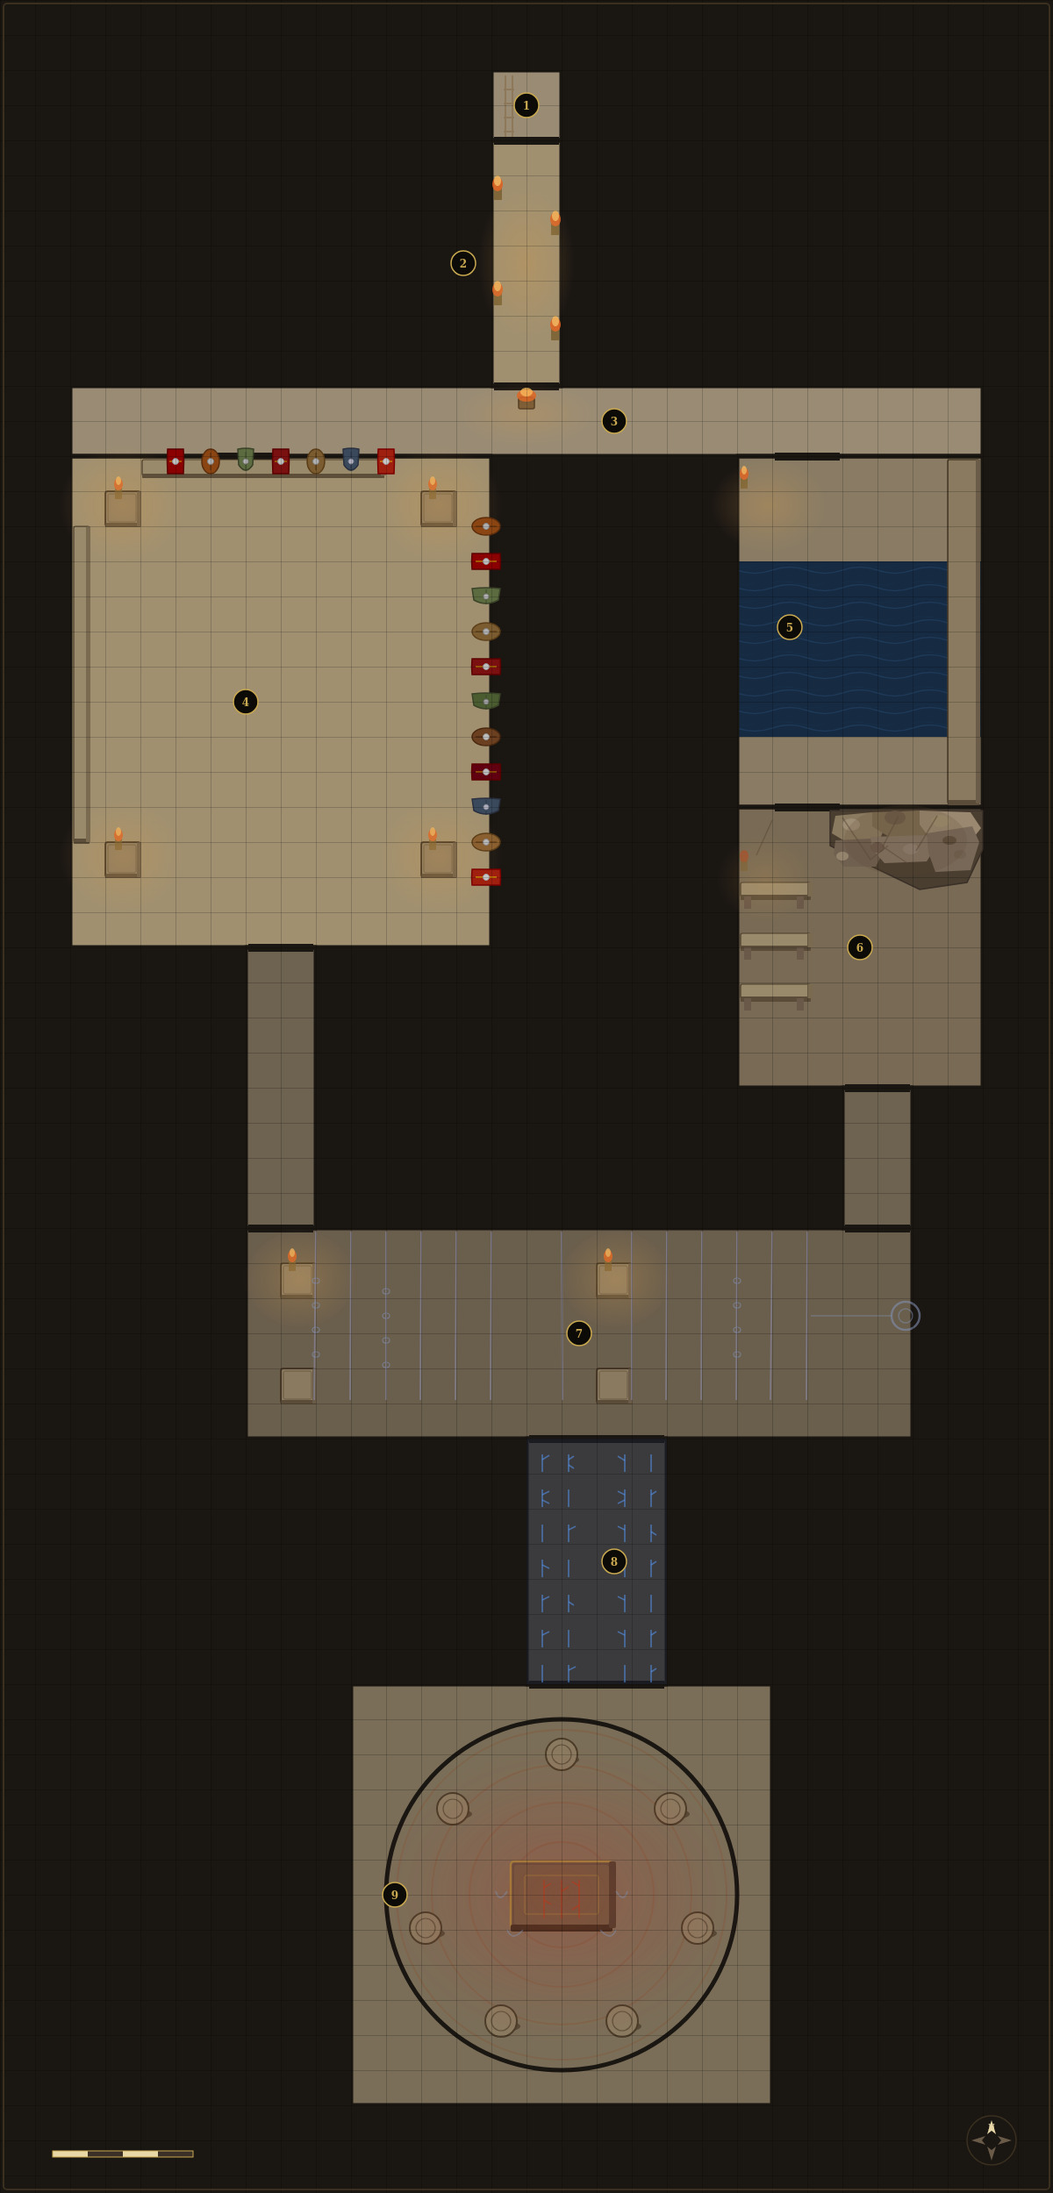
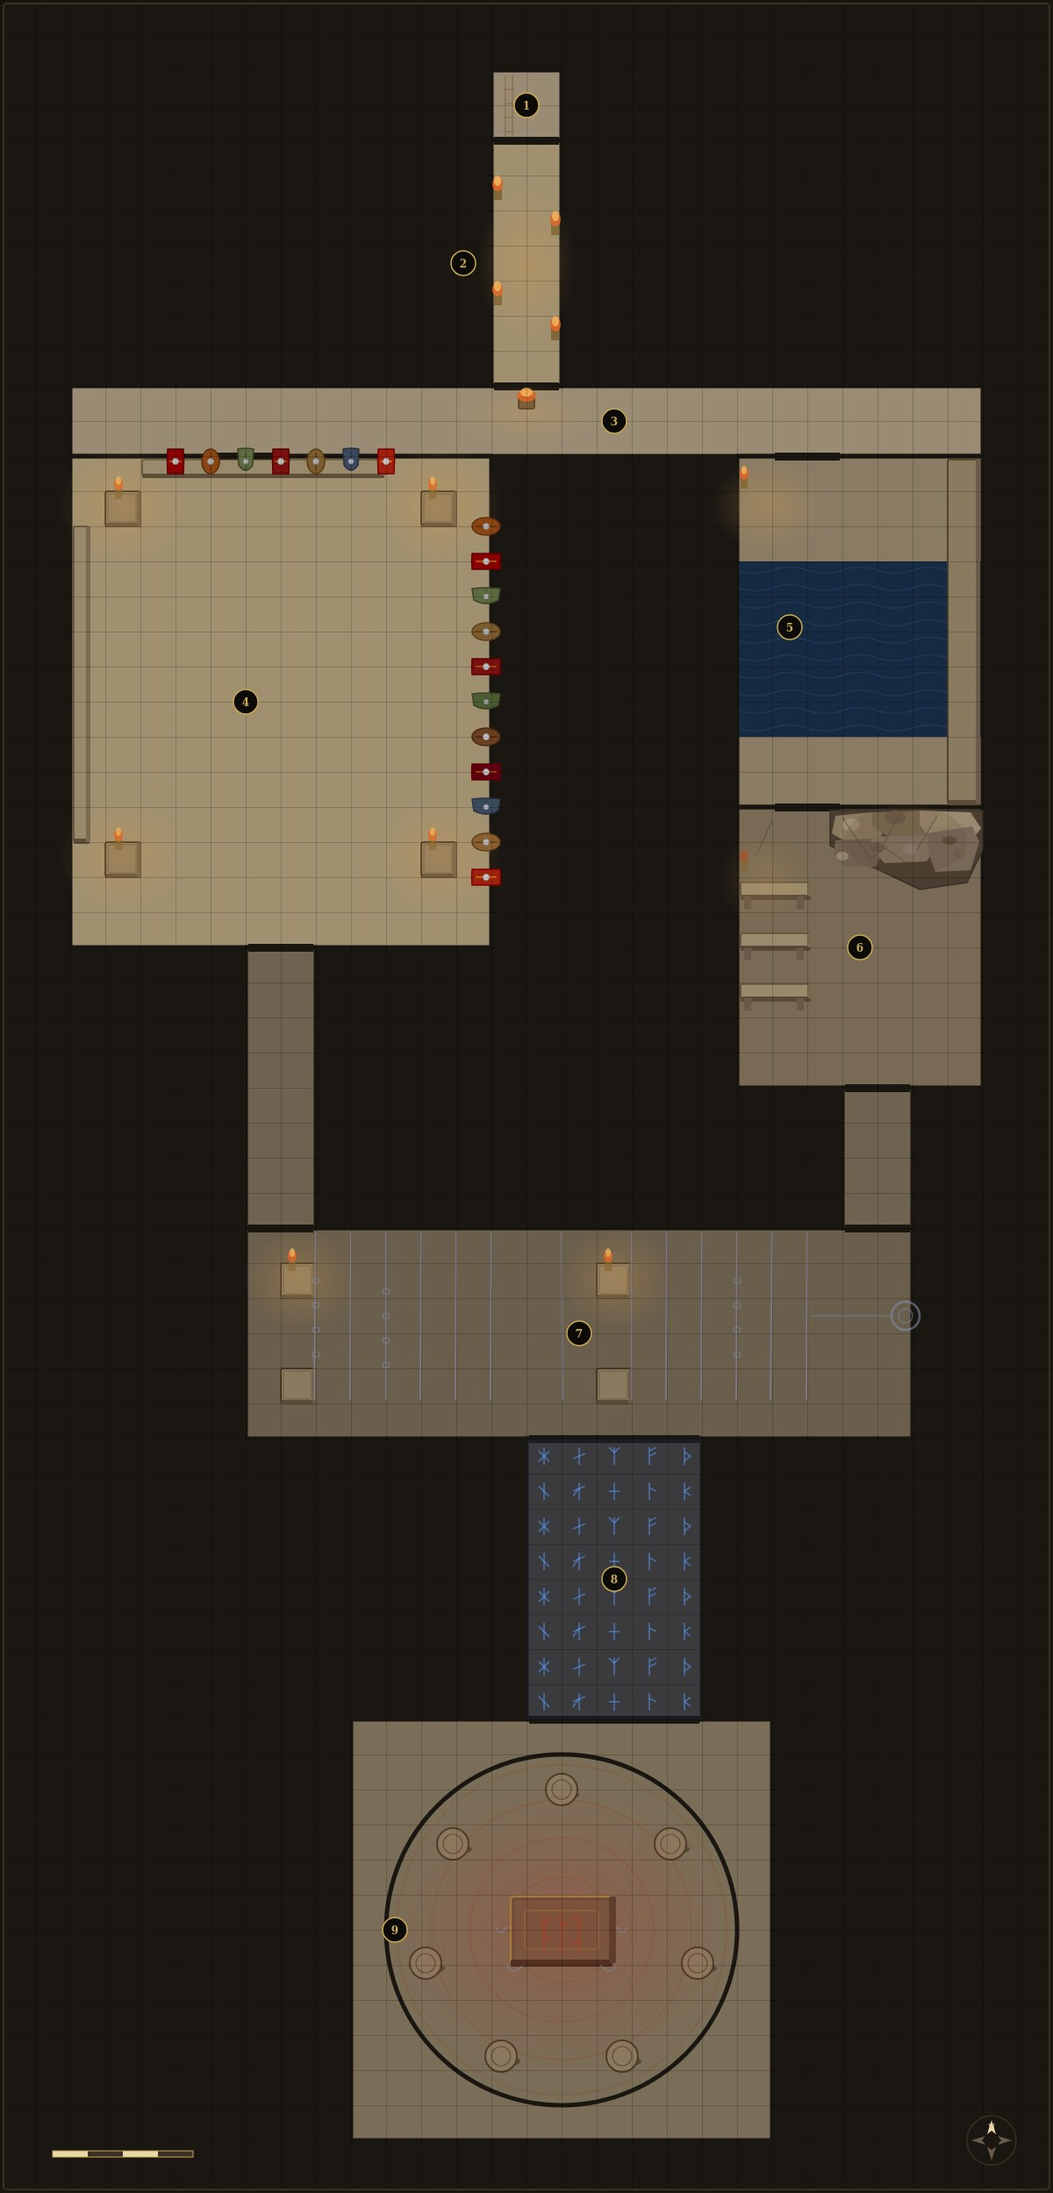
[Map Fix] S1 vault: Runic Corridor corrected to 5sq×8rows + altar shifted
- Runic Corridor: width 160→200px (4sq→5sq), height 280→320px (7rows→8rows)
  matching chapter1.qmd puzzle specification exactly
- Added 5th rune column (Raidho shape) to carved mark overlay
- All 5 column types: Hagalaz, Nauthiz, Tiwaz, Fehu, Raidho × 8 rows
- Altar chamber floor and all features shifted +40px down to clear corridor
- Re-rendered vault_s1_overview.jpg

Changed region(s): [[0.3392, 0.6552, 0.74, 0.9984]]

diff --git a/Maptool/maps/vault_s1_overview.html b/Maptool/maps/vault_s1_overview.html
@@ -34,9 +34,9 @@
     Left Corridor:   x=280  y=1080 w=80   h=320
     Right Corridor:  x=960  y=1240 w=80   h=160
     Binding Chamber: x=280  y=1400 w=760  h=240
-    Runic Corridor:  x=600  y=1640 w=160  h=280   ← 4 sq wide
-    Altar rect:      x=400  y=1920 w=480  h=480
-    Altar circle:    cx=640 cy=2160 r=200
+    Runic Corridor:  x=600  y=1640 w=200  h=320   ← 5 sq wide × 8 rows (matches chapter1 puzzle: 5 runes across, 8 rows)
+    Altar rect:      x=400  y=1960 w=480  h=480
+    Altar circle:    cx=640 cy=2200 r=200
   Canvas: 1200 × 2500
 -->
 
@@ -79,9 +79,9 @@
 <rect x="280" y="1080" width="80"   height="320" fill="#6e6250"/>
 <rect x="960" y="1240" width="80"   height="160" fill="#6e6250"/>
 <rect x="280" y="1400" width="760"  height="240" fill="#6a5e4c"/>
-<rect x="600" y="1640" width="160"  height="280" fill="#3e3830"/>
-<rect x="400" y="1920" width="480"  height="480" fill="#7a6e58"/>
-<circle cx="640" cy="2160" r="200"              fill="#7a6e58"/>
+<rect x="600" y="1640" width="200"  height="320" fill="#3e3830"/>
+<rect x="400" y="1960" width="480"  height="480" fill="#7a6e58"/>
+<circle cx="640" cy="2200" r="200"              fill="#7a6e58"/>
 
 <!-- WALLS -->
 <g fill="none" stroke="#1a1612" stroke-width="5" stroke-linejoin="round">
@@ -94,9 +94,9 @@
   <rect x="280" y="1080" width="80"   height="320"/>
   <rect x="960" y="1240" width="80"   height="160"/>
   <rect x="280" y="1400" width="760"  height="240"/>
-  <rect x="600" y="1640" width="160"  height="280"/>
-  <rect x="400" y="1920" width="480"  height="480"/>
-  <circle cx="640" cy="2160" r="200"/>
+  <rect x="600" y="1640" width="200"  height="320"/>
+  <rect x="400" y="1960" width="480"  height="480"/>
+  <circle cx="640" cy="2200" r="200"/>
 </g>
 
 <!-- ARCHWAY GAPS -->
@@ -110,8 +110,8 @@
   <rect x="963" y="1236" width="74"  height="9"/>
   <rect x="283" y="1396" width="74"  height="9"/>
   <rect x="963" y="1396" width="74"  height="9"/>
-  <rect x="603" y="1636" width="154" height="9"/>
-  <rect x="603" y="1916" width="154" height="9"/>
+  <rect x="603" y="1636" width="194" height="9"/>   <!-- binding → runic: 5sq=200px gap -->
+  <rect x="603" y="1956" width="194" height="9"/>   <!-- runic → altar: corridor ends y=1960 -->
 </g>
 
 <!-- ════════════════════════════════
@@ -474,127 +474,120 @@
 <circle cx="1032" cy="1500" r="8"  fill="none" stroke="#8090b0" stroke-width="1.5" opacity="0.5"/>
 <line x1="1016" y1="1500" x2="924" y2="1500" stroke="#8090b0" stroke-width="1.5" opacity="0.45"/>
 
-<!-- RUNIC CORRIDOR (4 sq wide = 160px): blue glow + abstract carved marks -->
-<rect x="600" y="1640" width="160" height="280" fill="rgba(40,70,160,0.12)"/>
-<!-- 4 columns of abstract carved marks, at x=618, 652, 708, 742 -->
+<!-- RUNIC CORRIDOR (5 sq wide = 200px, 8 rows = 320px): blue glow + 5×8 carved rune marks -->
+<!-- Matches chapter1 puzzle: 5 runes across, 8 rows deep, floor rune = correct order triggers exit -->
+<rect x="600" y="1640" width="200" height="320" fill="rgba(40,70,160,0.12)"/>
+<!-- 5 columns at x=620,660,700,740,780 × 8 rows at y=1660,1700,1740,1780,1820,1860,1900,1940 -->
+<!-- Col A(620)=Hagalaz  Col B(660)=Nauthiz  Col C(700)=Tiwaz  Col D(740)=Fehu  Col E(780)=Raidho -->
 <g stroke="rgba(90,160,255,0.50)" stroke-width="1.8" fill="none">
-  <!-- Column 1 (x~618) -->
-  <line x1="618" y1="1658" x2="618" y2="1678"/>
-  <line x1="618" y1="1664" x2="626" y2="1659"/>
-  <line x1="618" y1="1698" x2="618" y2="1718"/>
-  <line x1="618" y1="1704" x2="626" y2="1700"/>
-  <line x1="618" y1="1710" x2="626" y2="1714"/>
-  <line x1="618" y1="1738" x2="618" y2="1758"/>
-  <line x1="618" y1="1778" x2="618" y2="1798"/>
-  <line x1="618" y1="1784" x2="626" y2="1788"/>
-  <line x1="618" y1="1818" x2="618" y2="1838"/>
-  <line x1="618" y1="1824" x2="626" y2="1820"/>
-  <line x1="618" y1="1858" x2="618" y2="1878"/>
-  <line x1="618" y1="1864" x2="626" y2="1860"/>
-  <line x1="618" y1="1898" x2="618" y2="1918"/>
-  <!-- Column 2 (x~648) -->
-  <line x1="648" y1="1658" x2="648" y2="1678"/>
-  <line x1="648" y1="1664" x2="654" y2="1660"/>
-  <line x1="648" y1="1670" x2="654" y2="1674"/>
-  <line x1="648" y1="1698" x2="648" y2="1718"/>
-  <line x1="648" y1="1738" x2="648" y2="1758"/>
-  <line x1="648" y1="1744" x2="656" y2="1740"/>
-  <line x1="648" y1="1778" x2="648" y2="1798"/>
-  <line x1="648" y1="1818" x2="648" y2="1838"/>
-  <line x1="648" y1="1826" x2="654" y2="1830"/>
-  <line x1="648" y1="1858" x2="648" y2="1878"/>
-  <line x1="648" y1="1898" x2="648" y2="1918"/>
-  <line x1="648" y1="1904" x2="656" y2="1900"/>
-  <!-- Column 3 (x~712) -->
-  <line x1="712" y1="1658" x2="712" y2="1678"/>
-  <line x1="712" y1="1665" x2="704" y2="1660"/>
-  <line x1="712" y1="1698" x2="712" y2="1718"/>
-  <line x1="712" y1="1704" x2="704" y2="1700"/>
-  <line x1="712" y1="1710" x2="704" y2="1714"/>
-  <line x1="712" y1="1738" x2="712" y2="1758"/>
-  <line x1="712" y1="1744" x2="704" y2="1740"/>
-  <line x1="712" y1="1778" x2="712" y2="1798"/>
-  <line x1="712" y1="1818" x2="712" y2="1838"/>
-  <line x1="712" y1="1824" x2="704" y2="1820"/>
-  <line x1="712" y1="1858" x2="712" y2="1878"/>
-  <line x1="712" y1="1864" x2="704" y2="1860"/>
-  <line x1="712" y1="1898" x2="712" y2="1918"/>
-  <!-- Column 4 (x~742) -->
-  <line x1="742" y1="1658" x2="742" y2="1678"/>
-  <line x1="742" y1="1698" x2="742" y2="1718"/>
-  <line x1="742" y1="1704" x2="748" y2="1700"/>
-  <line x1="742" y1="1738" x2="742" y2="1758"/>
-  <line x1="742" y1="1746" x2="748" y2="1750"/>
-  <line x1="742" y1="1778" x2="742" y2="1798"/>
-  <line x1="742" y1="1784" x2="748" y2="1780"/>
-  <line x1="742" y1="1818" x2="742" y2="1838"/>
-  <line x1="742" y1="1858" x2="742" y2="1878"/>
-  <line x1="742" y1="1864" x2="748" y2="1860"/>
-  <line x1="742" y1="1898" x2="742" y2="1918"/>
-  <line x1="742" y1="1906" x2="748" y2="1902"/>
+  <!-- Col A: Hagalaz (vertical + cross branches) -->
+  <line x1="620" y1="1650" x2="620" y2="1670"/><line x1="614" y1="1654" x2="626" y2="1666"/><line x1="614" y1="1666" x2="626" y2="1654"/>
+  <line x1="620" y1="1690" x2="620" y2="1710"/><line x1="614" y1="1694" x2="626" y2="1706"/>
+  <line x1="620" y1="1730" x2="620" y2="1750"/><line x1="614" y1="1734" x2="626" y2="1746"/><line x1="614" y1="1746" x2="626" y2="1734"/>
+  <line x1="620" y1="1770" x2="620" y2="1790"/><line x1="614" y1="1774" x2="626" y2="1786"/>
+  <line x1="620" y1="1810" x2="620" y2="1830"/><line x1="614" y1="1814" x2="626" y2="1826"/><line x1="614" y1="1826" x2="626" y2="1814"/>
+  <line x1="620" y1="1850" x2="620" y2="1870"/><line x1="614" y1="1854" x2="626" y2="1866"/>
+  <line x1="620" y1="1890" x2="620" y2="1910"/><line x1="614" y1="1894" x2="626" y2="1906"/><line x1="614" y1="1906" x2="626" y2="1894"/>
+  <line x1="620" y1="1930" x2="620" y2="1950"/><line x1="614" y1="1934" x2="626" y2="1946"/>
+  <!-- Col B: Nauthiz (vertical + diagonal crossing right-to-left) -->
+  <line x1="660" y1="1650" x2="660" y2="1670"/><line x1="653" y1="1663" x2="667" y2="1657"/>
+  <line x1="660" y1="1690" x2="660" y2="1710"/><line x1="653" y1="1700" x2="667" y2="1694"/><line x1="660" y1="1696" x2="653" y2="1706"/>
+  <line x1="660" y1="1730" x2="660" y2="1750"/><line x1="653" y1="1743" x2="667" y2="1737"/>
+  <line x1="660" y1="1770" x2="660" y2="1790"/><line x1="653" y1="1780" x2="667" y2="1774"/><line x1="660" y1="1776" x2="653" y2="1786"/>
+  <line x1="660" y1="1810" x2="660" y2="1830"/><line x1="653" y1="1823" x2="667" y2="1817"/>
+  <line x1="660" y1="1850" x2="660" y2="1870"/><line x1="653" y1="1860" x2="667" y2="1854"/><line x1="660" y1="1856" x2="653" y2="1866"/>
+  <line x1="660" y1="1890" x2="660" y2="1910"/><line x1="653" y1="1903" x2="667" y2="1897"/>
+  <line x1="660" y1="1930" x2="660" y2="1950"/><line x1="653" y1="1940" x2="667" y2="1934"/><line x1="660" y1="1936" x2="653" y2="1946"/>
+  <!-- Col C: Tiwaz (vertical + two symmetric upward branches = arrow pointing up) -->
+  <line x1="700" y1="1650" x2="700" y2="1670"/><line x1="700" y1="1656" x2="694" y2="1650"/><line x1="700" y1="1656" x2="706" y2="1650"/>
+  <line x1="700" y1="1690" x2="700" y2="1710"/><line x1="694" y1="1700" x2="706" y2="1700"/>
+  <line x1="700" y1="1730" x2="700" y2="1750"/><line x1="700" y1="1736" x2="694" y2="1730"/><line x1="700" y1="1736" x2="706" y2="1730"/>
+  <line x1="700" y1="1770" x2="700" y2="1790"/><line x1="694" y1="1780" x2="706" y2="1780"/>
+  <line x1="700" y1="1810" x2="700" y2="1830"/><line x1="700" y1="1816" x2="694" y2="1810"/><line x1="700" y1="1816" x2="706" y2="1810"/>
+  <line x1="700" y1="1850" x2="700" y2="1870"/><line x1="694" y1="1860" x2="706" y2="1860"/>
+  <line x1="700" y1="1890" x2="700" y2="1910"/><line x1="700" y1="1896" x2="694" y2="1890"/><line x1="700" y1="1896" x2="706" y2="1890"/>
+  <line x1="700" y1="1930" x2="700" y2="1950"/><line x1="694" y1="1940" x2="706" y2="1940"/>
+  <!-- Col D: Fehu (vertical + two right upward branches) -->
+  <line x1="740" y1="1650" x2="740" y2="1670"/><line x1="740" y1="1654" x2="748" y2="1650"/><line x1="740" y1="1660" x2="748" y2="1656"/>
+  <line x1="740" y1="1690" x2="740" y2="1710"/><line x1="740" y1="1696" x2="748" y2="1700"/>
+  <line x1="740" y1="1730" x2="740" y2="1750"/><line x1="740" y1="1734" x2="748" y2="1730"/><line x1="740" y1="1740" x2="748" y2="1736"/>
+  <line x1="740" y1="1770" x2="740" y2="1790"/><line x1="740" y1="1776" x2="748" y2="1780"/>
+  <line x1="740" y1="1810" x2="740" y2="1830"/><line x1="740" y1="1814" x2="748" y2="1810"/><line x1="740" y1="1820" x2="748" y2="1816"/>
+  <line x1="740" y1="1850" x2="740" y2="1870"/><line x1="740" y1="1856" x2="748" y2="1860"/>
+  <line x1="740" y1="1890" x2="740" y2="1910"/><line x1="740" y1="1894" x2="748" y2="1890"/><line x1="740" y1="1900" x2="748" y2="1896"/>
+  <line x1="740" y1="1930" x2="740" y2="1950"/><line x1="740" y1="1936" x2="748" y2="1940"/>
+  <!-- Col E: Raidho (vertical + bent knee right) -->
+  <line x1="780" y1="1650" x2="780" y2="1670"/><line x1="780" y1="1655" x2="787" y2="1660"/><line x1="787" y1="1660" x2="780" y2="1665"/>
+  <line x1="780" y1="1690" x2="780" y2="1710"/><line x1="780" y1="1700" x2="787" y2="1695"/><line x1="780" y1="1700" x2="787" y2="1705"/>
+  <line x1="780" y1="1730" x2="780" y2="1750"/><line x1="780" y1="1735" x2="787" y2="1740"/><line x1="787" y1="1740" x2="780" y2="1745"/>
+  <line x1="780" y1="1770" x2="780" y2="1790"/><line x1="780" y1="1780" x2="787" y2="1775"/><line x1="780" y1="1780" x2="787" y2="1785"/>
+  <line x1="780" y1="1810" x2="780" y2="1830"/><line x1="780" y1="1815" x2="787" y2="1820"/><line x1="787" y1="1820" x2="780" y2="1825"/>
+  <line x1="780" y1="1850" x2="780" y2="1870"/><line x1="780" y1="1860" x2="787" y2="1855"/><line x1="780" y1="1860" x2="787" y2="1865"/>
+  <line x1="780" y1="1890" x2="780" y2="1910"/><line x1="780" y1="1895" x2="787" y2="1900"/><line x1="787" y1="1900" x2="780" y2="1905"/>
+  <line x1="780" y1="1930" x2="780" y2="1950"/><line x1="780" y1="1940" x2="787" y2="1935"/><line x1="780" y1="1940" x2="787" y2="1945"/>
 </g>
 
 <!-- ALTAR CHAMBER: concentric rings + 7 plinths + altar + glow -->
 <g fill="none" stroke="rgba(140,70,30,0.22)" stroke-width="1.8">
-  <circle cx="640" cy="2160" r="60"/>
-  <circle cx="640" cy="2160" r="105"/>
-  <circle cx="640" cy="2160" r="148"/>
-  <circle cx="640" cy="2160" r="188"/>
+  <circle cx="640" cy="2200" r="60"/>
+  <circle cx="640" cy="2200" r="105"/>
+  <circle cx="640" cy="2200" r="148"/>
+  <circle cx="640" cy="2200" r="188"/>
 </g>
 
 <!-- 7 standing stone plinths (3D top-view: circular top + ellipse shadow) -->
 <g>
   <!-- Plinth shadow (south/east ellipse) -->
-  <ellipse cx="642"  cy="2006" rx="18" ry="6" fill="#3a3020" opacity="0.6"/>
-  <ellipse cx="768"  cy="2068" rx="18" ry="6" fill="#3a3020" opacity="0.6"/>
-  <ellipse cx="799"  cy="2204" rx="18" ry="6" fill="#3a3020" opacity="0.6"/>
-  <ellipse cx="713"  cy="2310" rx="18" ry="6" fill="#3a3020" opacity="0.6"/>
-  <ellipse cx="575"  cy="2310" rx="18" ry="6" fill="#3a3020" opacity="0.6"/>
-  <ellipse cx="489"  cy="2204" rx="18" ry="6" fill="#3a3020" opacity="0.6"/>
-  <ellipse cx="520"  cy="2068" rx="18" ry="6" fill="#3a3020" opacity="0.6"/>
+  <ellipse cx="642"  cy="2046" rx="18" ry="6" fill="#3a3020" opacity="0.6"/>
+  <ellipse cx="768"  cy="2108" rx="18" ry="6" fill="#3a3020" opacity="0.6"/>
+  <ellipse cx="799"  cy="2244" rx="18" ry="6" fill="#3a3020" opacity="0.6"/>
+  <ellipse cx="713"  cy="2350" rx="18" ry="6" fill="#3a3020" opacity="0.6"/>
+  <ellipse cx="575"  cy="2350" rx="18" ry="6" fill="#3a3020" opacity="0.6"/>
+  <ellipse cx="489"  cy="2244" rx="18" ry="6" fill="#3a3020" opacity="0.6"/>
+  <ellipse cx="520"  cy="2108" rx="18" ry="6" fill="#3a3020" opacity="0.6"/>
   <!-- Plinth top face -->
-  <circle cx="640"  cy="2000" r="18" fill="#8a7a60" stroke="#4a3c28" stroke-width="2"/>
-  <circle cx="764"  cy="2062" r="18" fill="#8a7a60" stroke="#4a3c28" stroke-width="2"/>
-  <circle cx="795"  cy="2198" r="18" fill="#8a7a60" stroke="#4a3c28" stroke-width="2"/>
-  <circle cx="709"  cy="2304" r="18" fill="#8a7a60" stroke="#4a3c28" stroke-width="2"/>
-  <circle cx="571"  cy="2304" r="18" fill="#8a7a60" stroke="#4a3c28" stroke-width="2"/>
-  <circle cx="485"  cy="2198" r="18" fill="#8a7a60" stroke="#4a3c28" stroke-width="2"/>
-  <circle cx="516"  cy="2062" r="18" fill="#8a7a60" stroke="#4a3c28" stroke-width="2"/>
+  <circle cx="640"  cy="2040" r="18" fill="#8a7a60" stroke="#4a3c28" stroke-width="2"/>
+  <circle cx="764"  cy="2102" r="18" fill="#8a7a60" stroke="#4a3c28" stroke-width="2"/>
+  <circle cx="795"  cy="2238" r="18" fill="#8a7a60" stroke="#4a3c28" stroke-width="2"/>
+  <circle cx="709"  cy="2344" r="18" fill="#8a7a60" stroke="#4a3c28" stroke-width="2"/>
+  <circle cx="571"  cy="2344" r="18" fill="#8a7a60" stroke="#4a3c28" stroke-width="2"/>
+  <circle cx="485"  cy="2238" r="18" fill="#8a7a60" stroke="#4a3c28" stroke-width="2"/>
+  <circle cx="516"  cy="2102" r="18" fill="#8a7a60" stroke="#4a3c28" stroke-width="2"/>
   <!-- Plinth inner ring (carving detail) -->
-  <circle cx="640"  cy="2000" r="11" fill="none" stroke="#4a3c28" stroke-width="1.2" opacity="0.65"/>
-  <circle cx="764"  cy="2062" r="11" fill="none" stroke="#4a3c28" stroke-width="1.2" opacity="0.65"/>
-  <circle cx="795"  cy="2198" r="11" fill="none" stroke="#4a3c28" stroke-width="1.2" opacity="0.65"/>
-  <circle cx="709"  cy="2304" r="11" fill="none" stroke="#4a3c28" stroke-width="1.2" opacity="0.65"/>
-  <circle cx="571"  cy="2304" r="11" fill="none" stroke="#4a3c28" stroke-width="1.2" opacity="0.65"/>
-  <circle cx="485"  cy="2198" r="11" fill="none" stroke="#4a3c28" stroke-width="1.2" opacity="0.65"/>
-  <circle cx="516"  cy="2062" r="11" fill="none" stroke="#4a3c28" stroke-width="1.2" opacity="0.65"/>
+  <circle cx="640"  cy="2040" r="11" fill="none" stroke="#4a3c28" stroke-width="1.2" opacity="0.65"/>
+  <circle cx="764"  cy="2102" r="11" fill="none" stroke="#4a3c28" stroke-width="1.2" opacity="0.65"/>
+  <circle cx="795"  cy="2238" r="11" fill="none" stroke="#4a3c28" stroke-width="1.2" opacity="0.65"/>
+  <circle cx="709"  cy="2344" r="11" fill="none" stroke="#4a3c28" stroke-width="1.2" opacity="0.65"/>
+  <circle cx="571"  cy="2344" r="11" fill="none" stroke="#4a3c28" stroke-width="1.2" opacity="0.65"/>
+  <circle cx="485"  cy="2238" r="11" fill="none" stroke="#4a3c28" stroke-width="1.2" opacity="0.65"/>
+  <circle cx="516"  cy="2102" r="11" fill="none" stroke="#4a3c28" stroke-width="1.2" opacity="0.65"/>
 </g>
 
 <!-- Altar platform (3D): top face + front shadow + side shadow -->
-<rect x="582" y="2122" width="116" height="76" rx="4" fill="#5c5040" stroke="#a08840" stroke-width="2.5"/>
-<rect x="582" y="2194" width="116" height="8"  rx="2" fill="#3a3020"/>
-<rect x="694" y="2122" width="8"   height="76" rx="2" fill="#4a4030"/>
-<rect x="586" y="2126" width="108" height="68" rx="3" fill="#6a5c44"/>
-<rect x="598" y="2138" width="84"  height="44" rx="2" fill="none" stroke="#a08840" stroke-width="1" opacity="0.7"/>
+<rect x="582" y="2162" width="116" height="76" rx="4" fill="#5c5040" stroke="#a08840" stroke-width="2.5"/>
+<rect x="582" y="2234" width="116" height="8"  rx="2" fill="#3a3020"/>
+<rect x="694" y="2162" width="8"   height="76" rx="2" fill="#4a4030"/>
+<rect x="586" y="2166" width="108" height="68" rx="3" fill="#6a5c44"/>
+<rect x="598" y="2178" width="84"  height="44" rx="2" fill="none" stroke="#a08840" stroke-width="1" opacity="0.7"/>
 <!-- Mars glow -->
-<ellipse cx="640" cy="2160" rx="210" ry="170" fill="url(#altarglow)" opacity="0.75"/>
+<ellipse cx="640" cy="2200" rx="210" ry="170" fill="url(#altarglow)" opacity="0.75"/>
 <!-- Abstract carved marks on altar -->
 <g stroke="rgba(200,50,20,0.45)" stroke-width="1.8" fill="none">
-  <line x1="620" y1="2143" x2="620" y2="2187"/>
-  <line x1="620" y1="2152" x2="628" y2="2147"/>
-  <line x1="620" y1="2166" x2="628" y2="2171"/>
-  <line x1="640" y1="2143" x2="640" y2="2187"/>
-  <line x1="640" y1="2156" x2="648" y2="2151"/>
-  <line x1="660" y1="2143" x2="660" y2="2187"/>
-  <line x1="660" y1="2150" x2="652" y2="2145"/>
-  <line x1="660" y1="2172" x2="652" y2="2177"/>
+  <line x1="620" y1="2183" x2="620" y2="2227"/>
+  <line x1="620" y1="2192" x2="628" y2="2187"/>
+  <line x1="620" y1="2206" x2="628" y2="2211"/>
+  <line x1="640" y1="2183" x2="640" y2="2227"/>
+  <line x1="640" y1="2196" x2="648" y2="2191"/>
+  <line x1="660" y1="2183" x2="660" y2="2227"/>
+  <line x1="660" y1="2190" x2="652" y2="2185"/>
+  <line x1="660" y1="2212" x2="652" y2="2217"/>
 </g>
 <!-- Slack chain remnants at altar base -->
 <g stroke="#8090b0" stroke-width="1.8" opacity="0.45" fill="none">
-  <path d="M596,2200 Q584,2214 578,2200"/>
-  <path d="M684,2200 Q696,2214 702,2200"/>
-  <path d="M578,2156 Q569,2170 565,2156"/>
-  <path d="M702,2156 Q711,2170 715,2156"/>
+  <path d="M596,2240 Q584,2254 578,2240"/>
+  <path d="M684,2240 Q696,2254 702,2240"/>
+  <path d="M578,2196 Q569,2210 565,2196"/>
+  <path d="M702,2196 Q711,2210 715,2196"/>
 </g>
 
 <!-- ════════════════════════════════
@@ -618,10 +611,10 @@
   <text   x="980" y="1085"  text-anchor="middle" font-size="12" fill="#c8a850">6</text>
   <circle cx="660" cy="1520" r="14" fill="#0d0b08" stroke="#c8a850" stroke-width="1.5"/>
   <text   x="660" y="1525"  text-anchor="middle" font-size="12" fill="#c8a850">7</text>
-  <circle cx="700" cy="1780" r="14" fill="#0d0b08" stroke="#c8a850" stroke-width="1.5"/>
-  <text   x="700" y="1785"  text-anchor="middle" font-size="12" fill="#c8a850">8</text>
-  <circle cx="450" cy="2160" r="14" fill="#0d0b08" stroke="#c8a850" stroke-width="1.5"/>
-  <text   x="450" y="2165"  text-anchor="middle" font-size="12" fill="#c8a850">9</text>
+  <circle cx="700" cy="1800" r="14" fill="#0d0b08" stroke="#c8a850" stroke-width="1.5"/>
+  <text   x="700" y="1805"  text-anchor="middle" font-size="12" fill="#c8a850">8</text>
+  <circle cx="450" cy="2200" r="14" fill="#0d0b08" stroke="#c8a850" stroke-width="1.5"/>
+  <text   x="450" y="2205"  text-anchor="middle" font-size="12" fill="#c8a850">9</text>
 </g>
 
 <!-- COMPASS -->
@@ -671,7 +664,7 @@
   <tr><td class="room-num">7</td><td>Binding Chamber</td><td>19×6 sq</td>
     <td class="draw">Chains + columns drawn. Scroll token in E niche.</td>
     <td class="note">Chain sequence unlocks niche. Contract scroll = advantage at altar. No combat.</td></tr>
-  <tr><td class="room-num">8</td><td>Runic Corridor</td><td>4×7 sq</td>
+  <tr><td class="room-num">8</td><td>Runic Corridor</td><td>5×8 sq</td>
     <td class="draw">Glowing carved floor drawn. Use fog-of-war. No pre-placed tokens.</td>
     <td class="note">Wrong tile = 1d8 lightning DC 13 Dex half. Safe = OTHALAN tiles. No combat.</td></tr>
   <tr><td class="room-num">9</td><td>Altar Chamber</td><td>circle r=5 sq</td>
